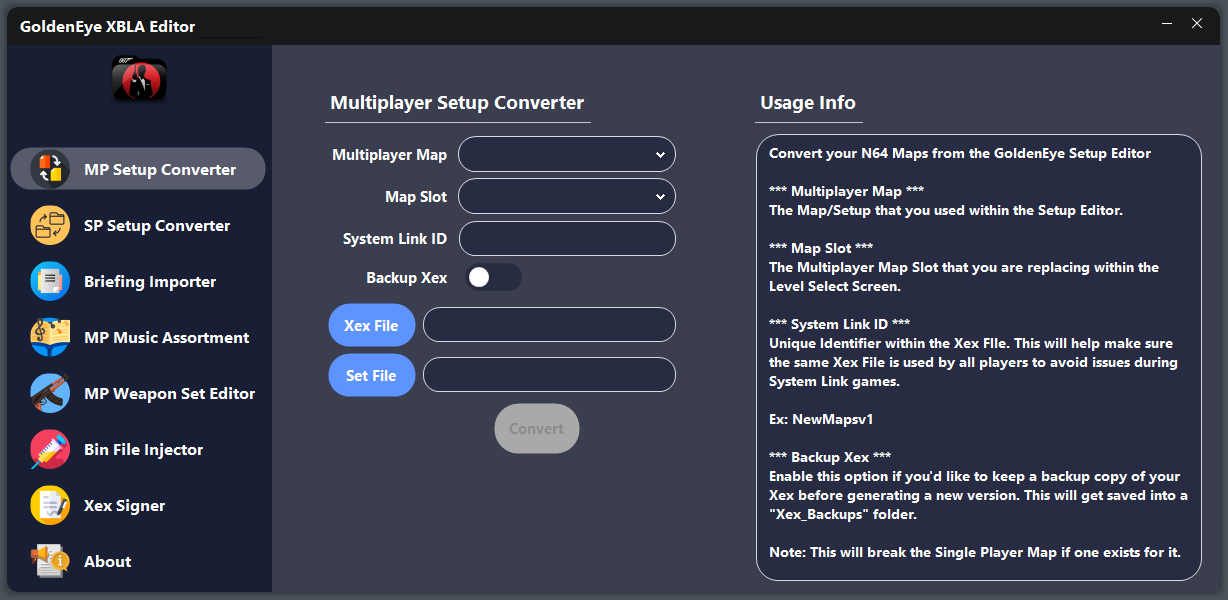
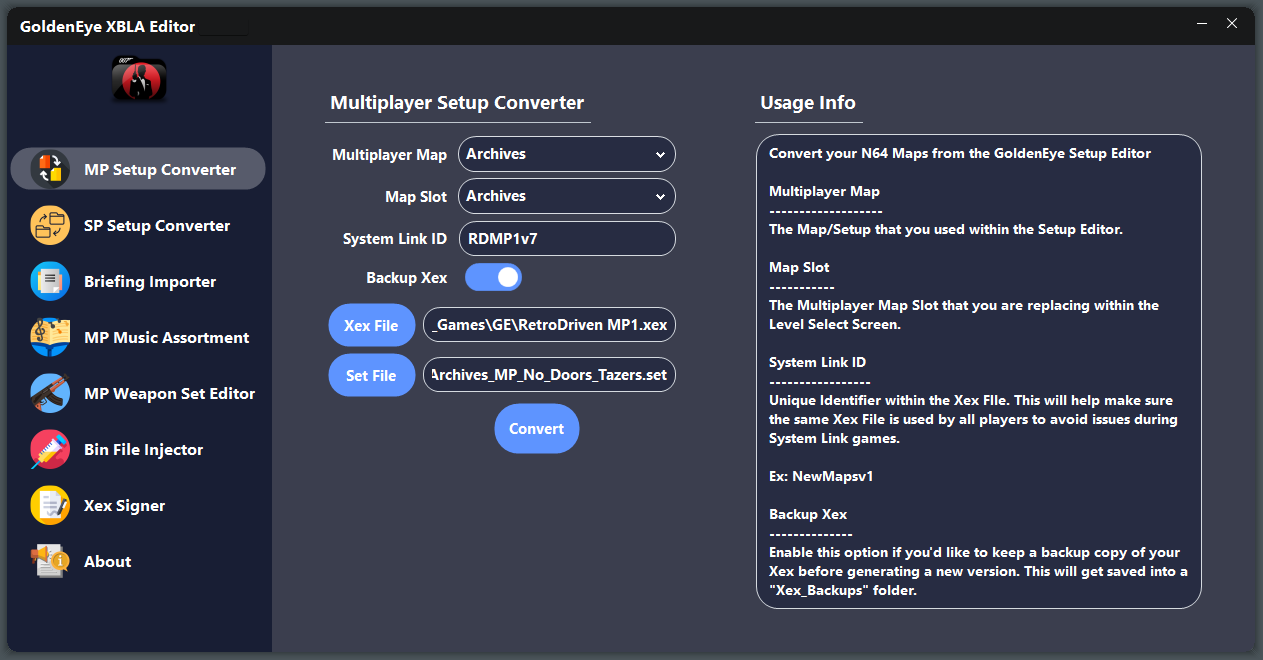
Minor tweaks

Changed region(s): [[0.0, 0.03, 0.9902, 0.99], [0.5879, 0.39, 0.9593, 0.93], [0.5879, 0.15, 0.9593, 0.36]]

diff --git a/Controls/MP_Setup_Converter.Designer.cs b/Controls/MP_Setup_Converter.Designer.cs
@@ -90,7 +90,7 @@
             Panel_Left.Dock = DockStyle.Left;
             Panel_Left.Location = new Point(0, 0);
             Panel_Left.Name = "Panel_Left";
-            Panel_Left.Size = new Size(364, 529);
+            Panel_Left.Size = new Size(364, 569);
             Panel_Left.TabIndex = 0;
             // 
             // flowLayoutPanel1
@@ -111,7 +111,7 @@
             // 
             label1.Anchor = AnchorStyles.Left;
             label1.AutoSize = true;
-            label1.Font = new Font("Segoe UI", 14.25F, FontStyle.Bold, GraphicsUnit.Point);
+            label1.Font = new Font("Segoe UI", 14.25F, FontStyle.Bold);
             label1.Location = new Point(3, 0);
             label1.Name = "label1";
             label1.Padding = new Padding(0, 19, 0, 0);
@@ -154,7 +154,7 @@
             // 
             label6.Anchor = AnchorStyles.Right;
             label6.AutoSize = true;
-            label6.Font = new Font("Segoe UI", 11.25F, FontStyle.Bold, GraphicsUnit.Point);
+            label6.Font = new Font("Segoe UI", 11.25F, FontStyle.Bold);
             label6.Location = new Point(37, 134);
             label6.Name = "label6";
             label6.Size = new Size(90, 20);
@@ -165,7 +165,7 @@
             // 
             label4.Anchor = AnchorStyles.Right;
             label4.AutoSize = true;
-            label4.Font = new Font("Segoe UI", 11.25F, FontStyle.Bold, GraphicsUnit.Point);
+            label4.Font = new Font("Segoe UI", 11.25F, FontStyle.Bold);
             label4.Location = new Point(14, 95);
             label4.Name = "label4";
             label4.Size = new Size(113, 20);
@@ -176,7 +176,7 @@
             // 
             label3.Anchor = AnchorStyles.Right;
             label3.AutoSize = true;
-            label3.Font = new Font("Segoe UI", 11.25F, FontStyle.Bold, GraphicsUnit.Point);
+            label3.Font = new Font("Segoe UI", 11.25F, FontStyle.Bold);
             label3.Location = new Point(56, 53);
             label3.Name = "label3";
             label3.Size = new Size(71, 20);
@@ -195,7 +195,7 @@
             MP_Slot.DropDownStyle = ComboBoxStyle.DropDownList;
             MP_Slot.FillColor = Color.FromArgb(39, 44, 66);
             MP_Slot.FocusedColor = Color.Empty;
-            MP_Slot.Font = new Font("Segoe UI", 11.25F, FontStyle.Bold, GraphicsUnit.Point);
+            MP_Slot.Font = new Font("Segoe UI", 11.25F, FontStyle.Bold);
             MP_Slot.ForeColor = SystemColors.ControlLightLight;
             MP_Slot.ItemHeight = 30;
             MP_Slot.Items.AddRange(new object[] { "Archives", "Basement", "Bunker", "Caverns", "Caves", "Complex", "Dam", "Depot", "Egyptian", "Facility", "Frigate", "Library", "Stack", "Temple" });
@@ -219,7 +219,7 @@
             MP_Map.DropDownStyle = ComboBoxStyle.DropDownList;
             MP_Map.FillColor = Color.FromArgb(39, 44, 66);
             MP_Map.FocusedColor = Color.Empty;
-            MP_Map.Font = new Font("Segoe UI", 11.25F, FontStyle.Bold, GraphicsUnit.Point);
+            MP_Map.Font = new Font("Segoe UI", 11.25F, FontStyle.Bold);
             MP_Map.ForeColor = SystemColors.ControlLightLight;
             MP_Map.ItemHeight = 30;
             MP_Map.Items.AddRange(new object[] { "Archives", "Aztec", "Basement", "Bunker", "Caverns", "Caves", "Complex", "Control", "Cradle", "Dam", "Depot", "Egyptian", "Facility", "Frigate", "Jungle", "Library", "Runway", "Silo", "Stack", "Statue", "Streets", "Surface 1", "Surface 2", "Temple", "Train" });
@@ -235,6 +235,7 @@
             // 
             Backup.Anchor = AnchorStyles.Left;
             Backup.AutoRoundedCorners = true;
+            Backup.Checked = true;
             Backup.CheckedState.BorderColor = Color.FromArgb(94, 148, 255);
             Backup.CheckedState.BorderRadius = 13;
             Backup.CheckedState.FillColor = Color.FromArgb(94, 148, 255);
@@ -271,7 +272,7 @@
             txtUnique.DisabledState.PlaceholderForeColor = Color.FromArgb(138, 138, 138);
             txtUnique.FillColor = Color.FromArgb(39, 44, 66);
             txtUnique.FocusedState.BorderColor = Color.FromArgb(94, 148, 255);
-            txtUnique.Font = new Font("Segoe UI", 11.25F, FontStyle.Bold, GraphicsUnit.Point);
+            txtUnique.Font = new Font("Segoe UI", 11.25F, FontStyle.Bold);
             txtUnique.ForeColor = SystemColors.ControlLightLight;
             txtUnique.HoverState.BorderColor = Color.FromArgb(94, 148, 255);
             txtUnique.Location = new Point(134, 88);
@@ -290,7 +291,7 @@
             // 
             label2.Anchor = AnchorStyles.Right;
             label2.AutoSize = true;
-            label2.Font = new Font("Segoe UI", 11.25F, FontStyle.Bold, GraphicsUnit.Point);
+            label2.Font = new Font("Segoe UI", 11.25F, FontStyle.Bold);
             label2.Location = new Point(3, 11);
             label2.Name = "label2";
             label2.Size = new Size(124, 20);
@@ -334,7 +335,7 @@
             textBox5.DisabledState.PlaceholderForeColor = Color.FromArgb(138, 138, 138);
             textBox5.FillColor = Color.FromArgb(39, 44, 66);
             textBox5.FocusedState.BorderColor = Color.FromArgb(94, 148, 255);
-            textBox5.Font = new Font("Segoe UI", 11.25F, FontStyle.Bold, GraphicsUnit.Point);
+            textBox5.Font = new Font("Segoe UI", 11.25F, FontStyle.Bold);
             textBox5.ForeColor = SystemColors.ControlLightLight;
             textBox5.HoverState.BorderColor = Color.FromArgb(94, 148, 255);
             textBox5.Location = new Point(98, 57);
@@ -363,7 +364,7 @@
             textBox4.DisabledState.PlaceholderForeColor = Color.FromArgb(138, 138, 138);
             textBox4.FillColor = Color.FromArgb(39, 44, 66);
             textBox4.FocusedState.BorderColor = Color.FromArgb(94, 148, 255);
-            textBox4.Font = new Font("Segoe UI", 11.25F, FontStyle.Bold, GraphicsUnit.Point);
+            textBox4.Font = new Font("Segoe UI", 11.25F, FontStyle.Bold);
             textBox4.ForeColor = SystemColors.ControlLightLight;
             textBox4.HoverState.BorderColor = Color.FromArgb(94, 148, 255);
             textBox4.Location = new Point(98, 7);
@@ -389,7 +390,7 @@
             btnBrowse.DisabledState.CustomBorderColor = Color.DarkGray;
             btnBrowse.DisabledState.FillColor = Color.FromArgb(169, 169, 169);
             btnBrowse.DisabledState.ForeColor = Color.FromArgb(141, 141, 141);
-            btnBrowse.Font = new Font("Segoe UI", 11.25F, FontStyle.Bold, GraphicsUnit.Point);
+            btnBrowse.Font = new Font("Segoe UI", 11.25F, FontStyle.Bold);
             btnBrowse.ForeColor = Color.White;
             btnBrowse.Location = new Point(3, 3);
             btnBrowse.Name = "btnBrowse";
@@ -410,7 +411,7 @@
             btnBrowse2.DisabledState.CustomBorderColor = Color.DarkGray;
             btnBrowse2.DisabledState.FillColor = Color.FromArgb(169, 169, 169);
             btnBrowse2.DisabledState.ForeColor = Color.FromArgb(141, 141, 141);
-            btnBrowse2.Font = new Font("Segoe UI", 11.25F, FontStyle.Bold, GraphicsUnit.Point);
+            btnBrowse2.Font = new Font("Segoe UI", 11.25F, FontStyle.Bold);
             btnBrowse2.ForeColor = Color.White;
             btnBrowse2.Location = new Point(3, 53);
             btnBrowse2.Name = "btnBrowse2";
@@ -431,7 +432,7 @@
             btnConvert.DisabledState.FillColor = Color.FromArgb(169, 169, 169);
             btnConvert.DisabledState.ForeColor = Color.FromArgb(141, 141, 141);
             btnConvert.Enabled = false;
-            btnConvert.Font = new Font("Segoe UI", 11.25F, FontStyle.Bold, GraphicsUnit.Point);
+            btnConvert.Font = new Font("Segoe UI", 11.25F, FontStyle.Bold);
             btnConvert.ForeColor = Color.White;
             btnConvert.Location = new Point(169, 103);
             btnConvert.Margin = new Padding(75, 3, 3, 3);
@@ -446,7 +447,7 @@
             // 
             label5.Anchor = AnchorStyles.Left;
             label5.AutoSize = true;
-            label5.Font = new Font("Segoe UI", 14.25F, FontStyle.Bold, GraphicsUnit.Point);
+            label5.Font = new Font("Segoe UI", 14.25F, FontStyle.Bold);
             label5.Location = new Point(3, 0);
             label5.Name = "label5";
             label5.Padding = new Padding(0, 19, 0, 0);
@@ -472,7 +473,7 @@
             guna2TextBox1.DisabledState.PlaceholderForeColor = Color.FromArgb(138, 138, 138);
             guna2TextBox1.FillColor = Color.FromArgb(39, 44, 66);
             guna2TextBox1.FocusedState.BorderColor = Color.FromArgb(94, 148, 255);
-            guna2TextBox1.Font = new Font("Segoe UI", 10.2F, FontStyle.Bold, GraphicsUnit.Point);
+            guna2TextBox1.Font = new Font("Segoe UI", 10.2F, FontStyle.Bold);
             guna2TextBox1.ForeColor = SystemColors.ControlLightLight;
             guna2TextBox1.HoverState.BorderColor = Color.FromArgb(94, 148, 255);
             guna2TextBox1.Location = new Point(4, 64);
@@ -484,7 +485,7 @@
             guna2TextBox1.ReadOnly = true;
             guna2TextBox1.SelectedText = "";
             guna2TextBox1.ShadowDecoration.CustomizableEdges = customizableEdges20;
-            guna2TextBox1.Size = new Size(446, 447);
+            guna2TextBox1.Size = new Size(446, 475);
             guna2TextBox1.TabIndex = 6;
             // 
             // saveFileDialog1
@@ -507,7 +508,7 @@
             Panel_Right.Location = new Point(364, 0);
             Panel_Right.Name = "Panel_Right";
             Panel_Right.Padding = new Padding(66, 0, 0, 0);
-            Panel_Right.Size = new Size(536, 529);
+            Panel_Right.Size = new Size(536, 569);
             Panel_Right.TabIndex = 1;
             // 
             // flowLayoutPanel2
@@ -519,7 +520,7 @@
             flowLayoutPanel2.FlowDirection = FlowDirection.TopDown;
             flowLayoutPanel2.Location = new Point(66, 0);
             flowLayoutPanel2.Name = "flowLayoutPanel2";
-            flowLayoutPanel2.Size = new Size(470, 529);
+            flowLayoutPanel2.Size = new Size(470, 569);
             flowLayoutPanel2.TabIndex = 0;
             // 
             // MP_Setup_Converter
@@ -530,11 +531,11 @@
             BackColor = Color.FromArgb(59, 62, 78);
             Controls.Add(Panel_Right);
             Controls.Add(Panel_Left);
-            Font = new Font("Segoe UI", 9F, FontStyle.Regular, GraphicsUnit.Point);
+            Font = new Font("Segoe UI", 9F);
             ForeColor = SystemColors.ControlLightLight;
             Margin = new Padding(3, 2, 3, 2);
             Name = "MP_Setup_Converter";
-            Size = new Size(900, 529);
+            Size = new Size(900, 569);
             Panel_Left.ResumeLayout(false);
             Panel_Left.PerformLayout();
             flowLayoutPanel1.ResumeLayout(false);

diff --git a/Controls/SP_Setup_Converter.Designer.cs b/Controls/SP_Setup_Converter.Designer.cs
@@ -91,7 +91,7 @@
             btnConvert.DisabledState.FillColor = Color.FromArgb(169, 169, 169);
             btnConvert.DisabledState.ForeColor = Color.FromArgb(141, 141, 141);
             btnConvert.Enabled = false;
-            btnConvert.Font = new Font("Segoe UI", 11.25F, FontStyle.Bold, GraphicsUnit.Point);
+            btnConvert.Font = new Font("Segoe UI", 11.25F, FontStyle.Bold);
             btnConvert.ForeColor = Color.White;
             btnConvert.Location = new Point(169, 103);
             btnConvert.Margin = new Padding(75, 3, 3, 3);
@@ -114,7 +114,7 @@
             SP_Map.DropDownStyle = ComboBoxStyle.DropDownList;
             SP_Map.FillColor = Color.FromArgb(39, 44, 66);
             SP_Map.FocusedColor = Color.Empty;
-            SP_Map.Font = new Font("Segoe UI", 11.25F, FontStyle.Bold, GraphicsUnit.Point);
+            SP_Map.Font = new Font("Segoe UI", 11.25F, FontStyle.Bold);
             SP_Map.ForeColor = SystemColors.ControlLightLight;
             SP_Map.ItemHeight = 30;
             SP_Map.Items.AddRange(new object[] { "Archives", "Aztec", "Bunker 1", "Bunker 2", "Caverns", "Control", "Cradle", "Dam", "Depot", "Egyptian", "Facility", "Frigate", "Jungle", "Runway", "Silo", "Statue", "Streets", "Surface 1", "Surface 2", "Train" });
@@ -141,7 +141,7 @@
             textBox4.DisabledState.PlaceholderForeColor = Color.FromArgb(138, 138, 138);
             textBox4.FillColor = Color.FromArgb(39, 44, 66);
             textBox4.FocusedState.BorderColor = Color.FromArgb(94, 148, 255);
-            textBox4.Font = new Font("Segoe UI", 11.25F, FontStyle.Bold, GraphicsUnit.Point);
+            textBox4.Font = new Font("Segoe UI", 11.25F, FontStyle.Bold);
             textBox4.ForeColor = SystemColors.ControlLightLight;
             textBox4.HoverState.BorderColor = Color.FromArgb(94, 148, 255);
             textBox4.Location = new Point(98, 7);
@@ -166,7 +166,7 @@
             btnBrowse.DisabledState.CustomBorderColor = Color.DarkGray;
             btnBrowse.DisabledState.FillColor = Color.FromArgb(169, 169, 169);
             btnBrowse.DisabledState.ForeColor = Color.FromArgb(141, 141, 141);
-            btnBrowse.Font = new Font("Segoe UI", 11.25F, FontStyle.Bold, GraphicsUnit.Point);
+            btnBrowse.Font = new Font("Segoe UI", 11.25F, FontStyle.Bold);
             btnBrowse.ForeColor = Color.White;
             btnBrowse.Location = new Point(3, 3);
             btnBrowse.Name = "btnBrowse";
@@ -187,7 +187,7 @@
             btnBrowse2.DisabledState.CustomBorderColor = Color.DarkGray;
             btnBrowse2.DisabledState.FillColor = Color.FromArgb(169, 169, 169);
             btnBrowse2.DisabledState.ForeColor = Color.FromArgb(141, 141, 141);
-            btnBrowse2.Font = new Font("Segoe UI", 11.25F, FontStyle.Bold, GraphicsUnit.Point);
+            btnBrowse2.Font = new Font("Segoe UI", 11.25F, FontStyle.Bold);
             btnBrowse2.ForeColor = Color.White;
             btnBrowse2.Location = new Point(3, 53);
             btnBrowse2.Name = "btnBrowse2";
@@ -201,7 +201,7 @@
             // 
             label2.Anchor = AnchorStyles.Right;
             label2.AutoSize = true;
-            label2.Font = new Font("Segoe UI", 11.25F, FontStyle.Bold, GraphicsUnit.Point);
+            label2.Font = new Font("Segoe UI", 11.25F, FontStyle.Bold);
             label2.Location = new Point(3, 11);
             label2.Name = "label2";
             label2.Size = new Size(129, 20);
@@ -243,7 +243,7 @@
             textBox5.DisabledState.PlaceholderForeColor = Color.FromArgb(138, 138, 138);
             textBox5.FillColor = Color.FromArgb(39, 44, 66);
             textBox5.FocusedState.BorderColor = Color.FromArgb(94, 148, 255);
-            textBox5.Font = new Font("Segoe UI", 11.25F, FontStyle.Bold, GraphicsUnit.Point);
+            textBox5.Font = new Font("Segoe UI", 11.25F, FontStyle.Bold);
             textBox5.ForeColor = SystemColors.ControlLightLight;
             textBox5.HoverState.BorderColor = Color.FromArgb(94, 148, 255);
             textBox5.Location = new Point(98, 57);
@@ -267,7 +267,7 @@
             // 
             label1.Anchor = AnchorStyles.Left;
             label1.AutoSize = true;
-            label1.Font = new Font("Segoe UI", 14.25F, FontStyle.Bold, GraphicsUnit.Point);
+            label1.Font = new Font("Segoe UI", 14.25F, FontStyle.Bold);
             label1.Location = new Point(3, 0);
             label1.Name = "label1";
             label1.Padding = new Padding(0, 19, 0, 0);
@@ -339,7 +339,7 @@
             // 
             label6.Anchor = AnchorStyles.Left;
             label6.AutoSize = true;
-            label6.Font = new Font("Segoe UI", 14.25F, FontStyle.Bold, GraphicsUnit.Point);
+            label6.Font = new Font("Segoe UI", 14.25F, FontStyle.Bold);
             label6.Location = new Point(3, 19);
             label6.Name = "label6";
             label6.Size = new Size(108, 25);
@@ -364,7 +364,7 @@
             guna2TextBox4.DisabledState.PlaceholderForeColor = Color.FromArgb(138, 138, 138);
             guna2TextBox4.FillColor = Color.FromArgb(39, 44, 66);
             guna2TextBox4.FocusedState.BorderColor = Color.FromArgb(94, 148, 255);
-            guna2TextBox4.Font = new Font("Segoe UI", 10.2F, FontStyle.Bold, GraphicsUnit.Point);
+            guna2TextBox4.Font = new Font("Segoe UI", 10.2F, FontStyle.Bold);
             guna2TextBox4.ForeColor = SystemColors.ControlLightLight;
             guna2TextBox4.HoverState.BorderColor = Color.FromArgb(94, 148, 255);
             guna2TextBox4.Location = new Point(4, 64);

diff --git a/Forms/Main.Designer.cs b/Forms/Main.Designer.cs
@@ -111,7 +111,7 @@
             Panel_Top.Location = new Point(0, 0);
             Panel_Top.Name = "Panel_Top";
             Panel_Top.ShadowDecoration.CustomizableEdges = customizableEdges22;
-            Panel_Top.Size = new Size(1214, 38);
+            Panel_Top.Size = new Size(1249, 38);
             Panel_Top.TabIndex = 0;
             // 
             // Min_Button
@@ -123,7 +123,7 @@
             Min_Button.CustomizableEdges = customizableEdges17;
             Min_Button.FillColor = Color.Transparent;
             Min_Button.IconColor = Color.White;
-            Min_Button.Location = new Point(1149, 7);
+            Min_Button.Location = new Point(1184, 7);
             Min_Button.Name = "Min_Button";
             Min_Button.ShadowDecoration.CustomizableEdges = customizableEdges18;
             Min_Button.Size = new Size(23, 19);
@@ -137,7 +137,7 @@
             Close_Button.CustomizableEdges = customizableEdges19;
             Close_Button.FillColor = Color.Transparent;
             Close_Button.IconColor = Color.White;
-            Close_Button.Location = new Point(1178, 7);
+            Close_Button.Location = new Point(1213, 7);
             Close_Button.Name = "Close_Button";
             Close_Button.ShadowDecoration.CustomizableEdges = customizableEdges20;
             Close_Button.Size = new Size(24, 19);
@@ -176,7 +176,7 @@
             Panel_Menu.Dock = DockStyle.Left;
             Panel_Menu.Location = new Point(0, 38);
             Panel_Menu.Name = "Panel_Menu";
-            Panel_Menu.Size = new Size(265, 548);
+            Panel_Menu.Size = new Size(265, 608);
             Panel_Menu.TabIndex = 1;
             // 
             // Flow_Menu
@@ -195,7 +195,7 @@
             Flow_Menu.Location = new Point(0, 62);
             Flow_Menu.Name = "Flow_Menu";
             Flow_Menu.Padding = new Padding(0, 10, 0, 0);
-            Flow_Menu.Size = new Size(265, 486);
+            Flow_Menu.Size = new Size(265, 546);
             Flow_Menu.TabIndex = 0;
             // 
             // MP_Converter
@@ -467,7 +467,7 @@
             Panel_Main.Location = new Point(265, 38);
             Panel_Main.Name = "Panel_Main";
             Panel_Main.Padding = new Padding(0, 25, 0, 0);
-            Panel_Main.Size = new Size(949, 548);
+            Panel_Main.Size = new Size(984, 608);
             Panel_Main.TabIndex = 2;
             // 
             // mP_Setup_Converter1
@@ -482,7 +482,7 @@
             mP_Setup_Converter1.Margin = new Padding(3, 2, 3, 2);
             mP_Setup_Converter1.Name = "mP_Setup_Converter1";
             mP_Setup_Converter1.Padding = new Padding(50, 0, 0, 0);
-            mP_Setup_Converter1.Size = new Size(949, 523);
+            mP_Setup_Converter1.Size = new Size(984, 583);
             mP_Setup_Converter1.TabIndex = 0;
             // 
             // sP_Setup_Converter1
@@ -495,7 +495,7 @@
             sP_Setup_Converter1.Margin = new Padding(3, 4, 3, 4);
             sP_Setup_Converter1.Name = "sP_Setup_Converter1";
             sP_Setup_Converter1.Padding = new Padding(50, 0, 0, 0);
-            sP_Setup_Converter1.Size = new Size(949, 523);
+            sP_Setup_Converter1.Size = new Size(984, 583);
             sP_Setup_Converter1.TabIndex = 1;
             sP_Setup_Converter1.Visible = false;
             // 
@@ -508,7 +508,7 @@
             briefing1.Location = new Point(0, 25);
             briefing1.Name = "briefing1";
             briefing1.Padding = new Padding(50, 0, 0, 0);
-            briefing1.Size = new Size(949, 523);
+            briefing1.Size = new Size(984, 583);
             briefing1.TabIndex = 2;
             briefing1.Visible = false;
             // 
@@ -520,7 +520,7 @@
             xex_Signer1.Location = new Point(0, 25);
             xex_Signer1.Name = "xex_Signer1";
             xex_Signer1.Padding = new Padding(50, 0, 0, 0);
-            xex_Signer1.Size = new Size(949, 523);
+            xex_Signer1.Size = new Size(984, 583);
             xex_Signer1.TabIndex = 3;
             // 
             // mP_Music1
@@ -531,7 +531,7 @@
             mP_Music1.Location = new Point(0, 25);
             mP_Music1.Name = "mP_Music1";
             mP_Music1.Padding = new Padding(50, 0, 0, 0);
-            mP_Music1.Size = new Size(949, 523);
+            mP_Music1.Size = new Size(984, 583);
             mP_Music1.TabIndex = 4;
             // 
             // guna2DragControl2
@@ -568,7 +568,7 @@
             AutoScaleDimensions = new SizeF(7F, 15F);
             AutoScaleMode = AutoScaleMode.Font;
             BackColor = Color.FromArgb(59, 62, 78);
-            ClientSize = new Size(1214, 586);
+            ClientSize = new Size(1249, 646);
             Controls.Add(Panel_Main);
             Controls.Add(Panel_Menu);
             Controls.Add(Panel_Top);

diff --git a/Controls/Briefing.Designer.cs b/Controls/Briefing.Designer.cs
@@ -355,7 +355,7 @@
             // 
             guna2TextBox4.BorderRadius = 22;
             guna2TextBox4.CustomizableEdges = customizableEdges15;
-            guna2TextBox4.DefaultText = "Import the Briefing File from your N64 Map\r\n\r\n*** Singleplayer Map ***\r\nThe Map/Setup that you used within the Setup Editor.";
+            guna2TextBox4.DefaultText = "Import the Briefing File from your N64 Map\r\n\r\nSingleplayer Map\r\n---------------------\r\nThe Map/Setup that you used within the Setup Editor.";
             guna2TextBox4.DisabledState.BorderColor = Color.FromArgb(208, 208, 208);
             guna2TextBox4.DisabledState.FillColor = Color.FromArgb(226, 226, 226);
             guna2TextBox4.DisabledState.ForeColor = Color.FromArgb(138, 138, 138);
